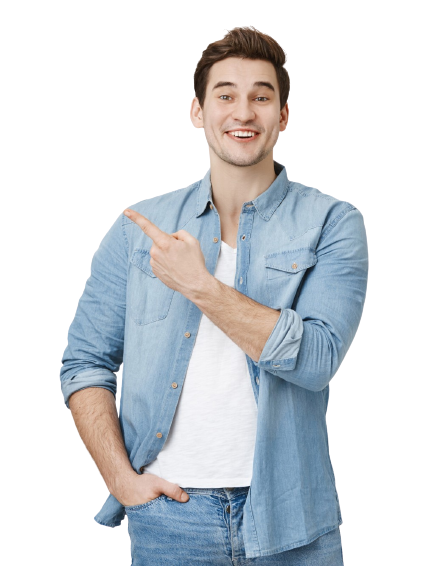
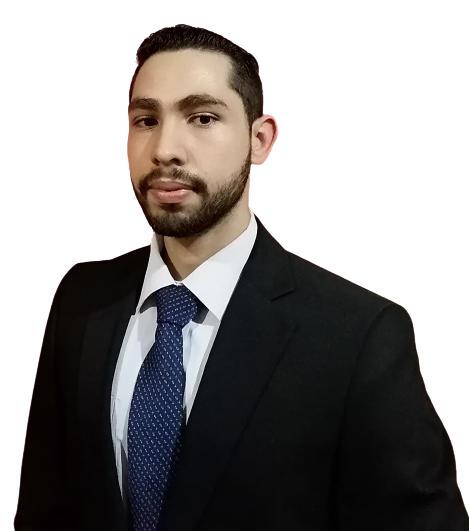
:bug: Fixing design of the Skill, Hero and Project Section.

diff --git a/src/components/organisms/Skills.tsx b/src/components/organisms/Skills.tsx
@@ -1,3 +1,6 @@
+// Components
+import { SkillCard } from '@molecules'
+
 // Assets
 // Backend
 import { ReactComponent as ExpressJSIcon } from '@assets/icons/backend/ExpressJSIcon.svg'
@@ -30,116 +33,116 @@ import { ReactComponent as TypeScriptIcon } from '@assets/icons/languages/TypeSc
 export const Skills = () => {
   const languages = [
     {
-      logo: <HTMLIcon />,
+      logo: <HTMLIcon width={80} height={80} />,
       level: 'HTML',
       count: 100,
     },
     {
-      logo: <CSSIcon />,
+      logo: <CSSIcon width={80} height={80} />,
       level: 'CSS',
       count: 100,
     },
     {
-      logo: <JavaScriptIcon />,
+      logo: <JavaScriptIcon width={80} height={80} />,
       level: 'JavaScript',
       count: 100,
     },
     {
-      logo: <TypeScriptIcon />,
+      logo: <TypeScriptIcon width={80} height={80} />,
       level: 'TypeScript',
       count: 100,
     },
     {
-      logo: <PHPIcon />,
+      logo: <PHPIcon width={80} height={80} />,
       level: 'PHP',
       count: 100,
     },
     {
-      logo: <JavaIcon />,
+      logo: <JavaIcon width={80} height={80} />,
       level: 'Java',
       count: 100,
     },
   ]
   const skillsFrontend = [
     {
-      logo: <ReactIcon />,
+      logo: <ReactIcon width={80} height={80} />,
       level: 'React',
       count: 100,
     },
     {
-      logo: <ReactNativeIcon />,
+      logo: <ReactNativeIcon width={80} height={80} />,
       level: 'React Native',
       count: 100,
     },
     {
-      logo: <NextJSIcon />,
+      logo: <NextJSIcon width={80} height={80} fill="#ffffff" />,
       level: 'NextJS',
       count: 100,
     },
     {
-      logo: <ReduxIcon />,
+      logo: <ReduxIcon width={80} height={80} />,
       level: 'Redux',
       count: 100,
     },
     {
-      logo: <TailwindCSSIcon />,
+      logo: <TailwindCSSIcon width={80} height={80} />,
       level: 'Tailwind CSS',
       count: 100,
     },
     {
-      logo: <MaterialUIIcon />,
+      logo: <MaterialUIIcon width={80} height={80} />,
       level: 'Material UI',
       count: 100,
     },
   ]
   const skillsBacktend = [
     {
-      logo: <NodeJSIcon />,
+      logo: <NodeJSIcon width={80} height={80} />,
       level: 'NodeJS',
       count: 100,
     },
     {
-      logo: <ExpressJSIcon />,
+      logo: <ExpressJSIcon fill="#ffffff" />,
       level: 'Express',
       count: 100,
     },
     {
-      logo: <JWTIcon />,
+      logo: <JWTIcon width={80} height={80} />,
       level: 'JWT',
       count: 100,
     },
     {
-      logo: <SwaggerIcon />,
+      logo: <SwaggerIcon width={80} height={80} />,
       level: 'Swagger',
       count: 100,
     },
     {
-      logo: <FirebaseIcon />,
+      logo: <FirebaseIcon width={80} height={80} />,
       level: 'Firebase',
       count: 100,
     },
     {
-      logo: <MySQLIcon />,
+      logo: <MySQLIcon width={80} height={80} />,
       level: 'MySQL',
       count: 100,
     },
     {
-      logo: <SQLServerIcon />,
+      logo: <SQLServerIcon width={80} height={80} />,
       level: 'SQL Server',
       count: 100,
     },
     {
-      logo: <OracleIcon />,
+      logo: <OracleIcon width={80} height={80} />,
       level: 'Oracle',
       count: 100,
     },
     {
-      logo: <MongoDBIcon />,
+      logo: <MongoDBIcon width={80} height={80} />,
       level: 'MongoDB',
       count: 100,
     },
     {
-      logo: <LaravelIcon />,
+      logo: <LaravelIcon width={80} height={80} />,
       level: 'Laravel',
       count: 100,
     },
@@ -153,64 +156,34 @@ export const Skills = () => {
         <p className="text-gray-400 mt-6 text-lg">Lenguages de programación</p>
         <div className="flex items-center justify-center mt-3 gap-10 flex-wrap">
           {languages?.map((skill, i) => (
-            <div
+            <SkillCard
               key={i}
-              className="border-2 group border-cyan-600 relative min-w-[10rem] max-w-[16rem] bg-gray-900 p-10 rounded-xl"
-            >
-              <div
-                style={{
-                  background: `conic-gradient(rgb(8,145,170) ${skill.count}%,#ddd ${skill.count}%)`,
-                }}
-                className="w-32 h-32 flex items-center justify-center rounded-full"
-              >
-                <div className="text-6xl w-28 h-28 bg-gray-900 rounded-full flex items-center justify-center group-hover:text-cyan-600">
-                  {skill.logo}
-                </div>
-              </div>
-              <p className="text-xl mt-3">{skill.level}</p>
-            </div>
+              count={skill.count}
+              logo={skill.logo}
+              name={skill.level}
+            />
           ))}
         </div>
         <p className="text-gray-400 mt-6 text-lg">Tecnologías Frontend</p>
         <div className="flex items-center justify-center mt-3 gap-10 flex-wrap">
           {skillsFrontend?.map((skill, i) => (
-            <div
+            <SkillCard
               key={i}
-              className="border-2 group border-cyan-600 relative min-w-[10rem] max-w-[16rem] bg-gray-900 p-10 rounded-xl"
-            >
-              <div
-                style={{
-                  background: `conic-gradient(rgb(8,145,170) ${skill.count}%,#ddd ${skill.count}%)`,
-                }}
-                className="w-32 h-32 flex items-center justify-center rounded-full"
-              >
-                <div className="text-6xl w-28 h-28 bg-gray-900 rounded-full flex items-center justify-center group-hover:text-cyan-600">
-                  {skill.logo}
-                </div>
-              </div>
-              <p className="text-xl mt-3">{skill.level}</p>
-            </div>
+              count={skill.count}
+              logo={skill.logo}
+              name={skill.level}
+            />
           ))}
         </div>
         <p className="text-gray-400 mt-12 text-lg">Tecnologías Backend</p>
         <div className="flex items-center justify-center mt-3 gap-10 flex-wrap">
           {skillsBacktend?.map((skill, i) => (
-            <div
+            <SkillCard
               key={i}
-              className="border-2 group border-cyan-600 relative min-w-[10rem] max-w-[16rem] bg-gray-900 p-10 rounded-xl"
-            >
-              <div
-                style={{
-                  background: `conic-gradient(rgb(8,145,170) ${skill.count}%,#ddd ${skill.count}%)`,
-                }}
-                className="w-32 h-32 flex items-center justify-center rounded-full"
-              >
-                <div className="text-6xl w-28 h-28 bg-gray-900 rounded-full flex items-center justify-center group-hover:text-cyan-600">
-                  {skill.logo}
-                </div>
-              </div>
-              <p className="text-xl mt-3">{skill.level}</p>
-            </div>
+              count={skill.count}
+              logo={skill.logo}
+              name={skill.level}
+            />
           ))}
         </div>
       </div>

diff --git a/src/components/organisms/Project.tsx b/src/components/organisms/Project.tsx
@@ -4,7 +4,6 @@ import project2 from '@assets/images/project-2.jpg'
 import project3 from '@assets/images/project-3.jpg'
 import project4 from '@assets/images/project-4.jpg'
 import project5 from '@assets/images/project-5.png'
-import project_person from '@assets/images/project_person1.png'
 import 'swiper/css'
 import 'swiper/css/pagination'
 import { Pagination, Autoplay } from 'swiper'
@@ -106,19 +105,19 @@ export const Project = () => {
         <p className="text-gray-400 mt-3 text-lg">Algunos de mis proyectos</p>
       </div>
       <br />
-      <div className="flex max-w-6xl gap-6 px-5 mx-auto items-center relative">
-        <div className="lg:w-2/3 w-full">
+      <div className="flex max-w-6xl gap-6 px-5 mx-auto items-center relative ">
+        <div className="w-full">
           <Swiper
             slidesPerView={1.2}
             spaceBetween={20}
             breakpoints={{
               768: {
-                slidesPerView: 2,
+                slidesPerView: 3,
               },
             }}
             loop={true}
             autoplay={{
-              delay: 3000,
+              delay: 5000,
             }}
             pagination={{
               clickable: true,
@@ -127,8 +126,12 @@ export const Project = () => {
           >
             {projects.map((project_info, i) => (
               <SwiperSlide key={i}>
-                <div className="h-fit w-full p-4 bg-slate-700 rounded-xl">
-                  <img src={project_info.img} alt="" className="rounded-lg" />
+                <div className="h-fit w-full p-4 mb-12 bg-slate-700">
+                  <img
+                    src={project_info.img}
+                    alt=""
+                    className="rounded-lg w-64 h-40"
+                  />
                   <h3 className="text-xl my-4">{project_info.name}</h3>
                   <div className="flex gap-3">
                     <a
@@ -152,7 +155,7 @@ export const Project = () => {
           </Swiper>
         </div>
         <div className="lg:block hidden">
-          <img src={project_person} alt="" />
+          {/* <img src={project_person} alt="" /> */}
         </div>
       </div>
     </section>

diff --git a/src/components/organisms/Hero.tsx b/src/components/organisms/Hero.tsx
@@ -1,9 +1,12 @@
-import hero from '@assets/images/hero.png'
+import hero from '@assets/images/hero.jpg'
 
 import FacebookIcon from '@mui/icons-material/Facebook'
 import GitHubIcon from '@mui/icons-material/GitHub'
 import LinkedInIcon from '@mui/icons-material/LinkedIn'
 import YouTubeIcon from '@mui/icons-material/YouTube'
+
+// Styles
+import './hero.css'
 
 export const Hero = () => {
   const handleContactMe = () => {
@@ -31,7 +34,11 @@ export const Hero = () => {
       className="min-h-screen flex py-10 md:flex-row flex-col items-center"
     >
       <div className="flex-1 flex items-center justify-center h-full">
-        <img src={hero} alt="" className="md:w-11/12 h-full object-cover" />
+        <img
+          src={hero}
+          alt=""
+          className="object-cover rounded-full profile-hero"
+        />
       </div>
       <div className="flex-1">
         <div className="md:text-left text-center">

diff --git a/src/components/molecules/SkillCard.tsx b/src/components/molecules/SkillCard.tsx
@@ -1,0 +1,19 @@
+import { SkillCardProps } from '@types'
+
+export const SkillCard = ({ count, logo, name }: SkillCardProps) => {
+  return (
+    <div className="border-2 group border-cyan-600 min-w-[10rem] max-w-[16rem] bg-gray-900 p-10 rounded-xl flex flex-col items-center">
+      <div
+        style={{
+          background: `conic-gradient(rgb(8,145,170) ${count}%,#ddd ${count}%)`,
+        }}
+        className="w-32 h-32 flex items-center justify-center rounded-full"
+      >
+        <div className="text-6xl p-1 w-28 h-28 bg-gray-900 rounded-full flex items-center justify-center group-hover:text-cyan-600">
+          {logo}
+        </div>
+      </div>
+      <p className="text-xl mt-3">{name}</p>
+    </div>
+  )
+}

diff --git a/src/components/organisms/hero.css b/src/components/organisms/hero.css
@@ -1,0 +1,13 @@
+.profile-hero {
+  width: 64vw;
+  height: 64vw;
+}
+
+@media screen and (min-width: 768px) {
+  .profile-hero {
+    width: 30vw;
+    height: 30vw;
+    max-width: 500px;
+    max-height: 500px;
+  }
+}

diff --git a/src/types/molecules.d.ts b/src/types/molecules.d.ts
@@ -1,3 +1,9 @@
+export interface SkillCardProps {
+  count: number
+  logo: React.ReactNode
+  name: string
+}
+
 export interface DialogTitleCustomProps {
   disabledIconClose?: boolean
   children: React.ReactNode

diff --git a/src/components/molecules/index.ts b/src/components/molecules/index.ts
@@ -1,1 +1,2 @@
 export * from './DialogTitleCustom'
+export * from './SkillCard'
